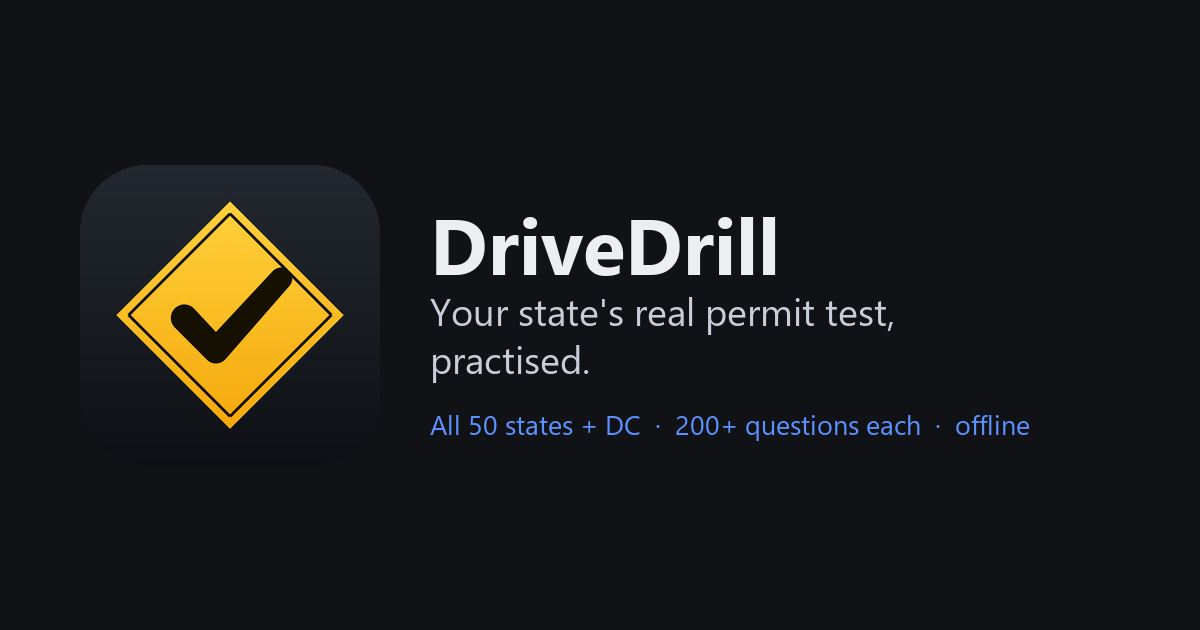
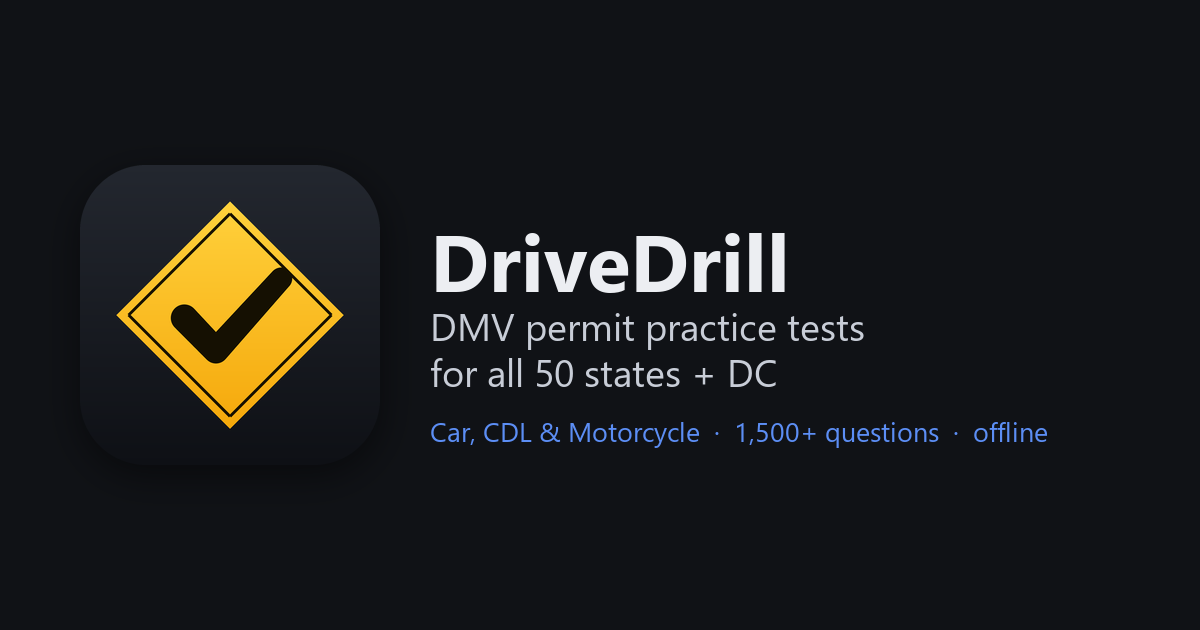
Site matches live app 1.8.1: car Monthly price, CDL/Motorcycle weekly in the terms, in-app Manage Subscription, exam-format wording, Spanish language steps, share card
- index: car plans list Weekly $7.99 · Monthly $19.99 · Pass Pack $19.99 one-time (Monthly is
  on the car paywall and in the store description); check_site ALLOWED_COPY follows
- support: Settings > Manage Subscription opens a screen to cancel or ask Apple for a refund
  (1.8.1 Customer Center); exam format follows the state's only where the state publishes it,
  as the store text says; no "own exam format" for every state
- terms: CDL Weekly $9.99 and Motorcycle Weekly $7.99 listed as subscriptions; the 7-day
  free trial on weekly plans stated; dated 8 October 2026
- es/cdl, es/motocicleta, 51 es/<state> pages (and build_es_pages.py): Ajustes > Idioma opens
  the iPhone's Configuración, where Español is chosen (what the app's row does)
- og.png: current facts (Car, CDL & Motorcycle, 1,500+ questions, all 50 states + DC); same
  live icon
- sitemap: lastmod 2026-10-08 for the changed pages

Changed region(s): [[0.3392, 0.3317, 0.74, 0.6333], [0.3392, 0.6635, 0.8633, 0.7238]]

diff --git a/terms.html b/terms.html
@@ -31,7 +31,7 @@
     <div class="wrap hero-grid">
       <div class="hero-copy">
         <h1 id="hero-title">Terms of Use</h1>
-        <p class="updated-h">Last updated: 4 October 2026</p>
+        <p class="updated-h">Last updated: 8 October 2026</p>
       </div>
     </div>
   </section>
@@ -75,6 +75,9 @@
     <li><strong>Premium Weekly</strong> ($7.99 per week) and <strong>Premium Monthly</strong>
         ($19.99 per month) are auto-renewing subscriptions. Payment is charged to your Apple
         Account at confirmation of purchase.</li>
+    <li><strong>CDL Weekly</strong> ($9.99 per week) and <strong>Motorcycle Weekly</strong>
+        ($7.99 per week) are auto-renewing subscriptions for their own sections, charged the
+        same way.</li>
     <li>Where the app offers it, <strong>Premium Weekly (special offer)</strong> is an
         auto-renewing subscription at the weekly price shown on the offer screen (currently
         $4.99 per week), with no free trial.</li>
@@ -83,8 +86,9 @@
         the end of the current period.</li>
     <li>Manage or cancel a subscription in Settings › Apple Account › Subscriptions. Deleting
         the app does not cancel a subscription.</li>
-    <li>Where offered, a free trial converts to a paid subscription unless cancelled at least
-        24 hours before the trial ends. Any unused portion of a free trial is forfeited when a
+    <li>Eligible new subscribers get a 7-day free trial on weekly plans (Premium Weekly, CDL
+        Weekly and Motorcycle Weekly). Where offered, a free trial converts to a paid
+        subscription unless cancelled at least 24 hours before the trial ends. Any unused portion of a free trial is forfeited when a
         subscription is purchased.</li>
     <li>The <strong>Pass Pack</strong> ($19.99) is a one-time purchase. It does not renew, and
         it unlocks every state in the app, not just the one you are studying. The

diff --git a/support.html b/support.html
@@ -51,8 +51,9 @@
     Subscriptions are managed by Apple, not by us. On your iPhone: <strong>Settings › your
     name › Subscriptions</strong>, then tap the DriveDrill subscription (it may be listed as
     <strong>Permit Practice Test: DMV 2026</strong> or <strong>DMV Permit Test</strong>) and
-    tap <strong>Cancel</strong>. You can also tap
-    <strong>Manage Subscription</strong> inside the app. Cancel at least 24 hours before the
+    tap <strong>Cancel</strong>. You can also open <strong>Settings › Manage
+    Subscription</strong> inside the app: it opens a screen where you can cancel or ask Apple
+    for a refund (Apple decides refunds). Cancel at least 24 hours before the
     period ends, or it renews. Deleting the app does not cancel a subscription.
   </p>
 
@@ -98,13 +99,14 @@
   <h2>Is this the real test?</h2>
   <p>
     No. These are original questions written in the style of public state driver handbooks.
-    The exam format is built to match your state's real test — its question count, its pass
-    score, and any separately scored sections — but the questions themselves are ours. Your
+    Where your state publishes its test format, the mock exam follows it — its question count,
+    its pass score, and any separately scored sections; where it does not, the app says so. The
+    questions themselves are ours. Your
     state's current official handbook is always the authoritative source.
   </p>
 
   <h2>Which states are included?</h2>
-  <p>All 50 states and the District of Columbia, each with its own question bank and its own exam format.</p>
+  <p>All 50 states and the District of Columbia, each with its own question bank.</p>
 
   <p class="disclaimer">
     DriveDrill is an independent study app. It is not affiliated with, endorsed by, or

diff --git a/index.html b/index.html
@@ -197,7 +197,7 @@
       <div class="trial-layout">
         <div>
           <dl class="prices">
-            <div><dt>Car permit</dt><dd><span class="p">Weekly $7.99</span><span class="dot"> · </span><span class="p">Pass Pack $19.99 one-time</span></dd></div>
+            <div><dt>Car permit</dt><dd><span class="p">Weekly $7.99</span><span class="dot"> · </span><span class="p">Monthly $19.99</span><span class="dot"> · </span><span class="p">Pass Pack $19.99 one-time</span></dd></div>
             <div><dt>CDL</dt><dd><span class="p">CDL Weekly $9.99</span><span class="dot"> · </span><span class="p">CDL Pass $39.99</span></dd></div>
             <div><dt>Motorcycle</dt><dd><span class="p">Motorcycle Weekly $7.99</span><span class="dot"> · </span><span class="p">Motorcycle Pass $19.99</span></dd></div>
           </dl>

diff --git a/es/district-of-columbia/index.html b/es/district-of-columbia/index.html
@@ -183,7 +183,7 @@
       <div class="endcard">
         <p>Practica las más de 230 preguntas del Distrito de Columbia y toma simulacros de examen completos en la app, en español.</p>
         <p class="cta"><a class="store-link appstore" data-store="es-car" href="https://apps.apple.com/us/app/id6813140105"><img src="/img/app-store-badge-es.svg" alt="Descárgalo en el App Store" width="162" height="54"></a></p>
-        <p class="cta-note">Si tu iPhone está en español, DriveDrill se abre en español. Si no, toca Ajustes › Idioma en la app y elige Español.</p>
+        <p class="cta-note">Si tu iPhone está en español, DriveDrill se abre en español. Si no, en la app toca Ajustes › Idioma: se abre DriveDrill en la app Configuración, donde puedes elegir Español.</p>
       </div>
 
       <div class="after-quiz">

diff --git a/es/west-virginia/index.html b/es/west-virginia/index.html
@@ -183,7 +183,7 @@
       <div class="endcard">
         <p>Practica las más de 230 preguntas de Virginia Occidental y toma simulacros de examen completos en la app, en español.</p>
         <p class="cta"><a class="store-link appstore" data-store="es-car" href="https://apps.apple.com/us/app/id6813140105"><img src="/img/app-store-badge-es.svg" alt="Descárgalo en el App Store" width="162" height="54"></a></p>
-        <p class="cta-note">Si tu iPhone está en español, DriveDrill se abre en español. Si no, toca Ajustes › Idioma en la app y elige Español.</p>
+        <p class="cta-note">Si tu iPhone está en español, DriveDrill se abre en español. Si no, en la app toca Ajustes › Idioma: se abre DriveDrill en la app Configuración, donde puedes elegir Español.</p>
       </div>
 
       <div class="after-quiz">

diff --git a/es/north-carolina/index.html b/es/north-carolina/index.html
@@ -185,7 +185,7 @@
       <div class="endcard">
         <p>Practica las más de 230 preguntas de Carolina del Norte y toma simulacros de examen completos en la app, en español.</p>
         <p class="cta"><a class="store-link appstore" data-store="es-car" href="https://apps.apple.com/us/app/id6813140105"><img src="/img/app-store-badge-es.svg" alt="Descárgalo en el App Store" width="162" height="54"></a></p>
-        <p class="cta-note">Si tu iPhone está en español, DriveDrill se abre en español. Si no, toca Ajustes › Idioma en la app y elige Español.</p>
+        <p class="cta-note">Si tu iPhone está en español, DriveDrill se abre en español. Si no, en la app toca Ajustes › Idioma: se abre DriveDrill en la app Configuración, donde puedes elegir Español.</p>
       </div>
 
       <div class="after-quiz">

diff --git a/es/north-dakota/index.html b/es/north-dakota/index.html
@@ -183,7 +183,7 @@
       <div class="endcard">
         <p>Practica las más de 230 preguntas de Dakota del Norte y toma simulacros de examen completos en la app, en español.</p>
         <p class="cta"><a class="store-link appstore" data-store="es-car" href="https://apps.apple.com/us/app/id6813140105"><img src="/img/app-store-badge-es.svg" alt="Descárgalo en el App Store" width="162" height="54"></a></p>
-        <p class="cta-note">Si tu iPhone está en español, DriveDrill se abre en español. Si no, toca Ajustes › Idioma en la app y elige Español.</p>
+        <p class="cta-note">Si tu iPhone está en español, DriveDrill se abre en español. Si no, en la app toca Ajustes › Idioma: se abre DriveDrill en la app Configuración, donde puedes elegir Español.</p>
       </div>
 
       <div class="after-quiz">

diff --git a/es/south-carolina/index.html b/es/south-carolina/index.html
@@ -185,7 +185,7 @@
       <div class="endcard">
         <p>Practica las más de 230 preguntas de Carolina del Sur y toma simulacros de examen completos en la app, en español.</p>
         <p class="cta"><a class="store-link appstore" data-store="es-car" href="https://apps.apple.com/us/app/id6813140105"><img src="/img/app-store-badge-es.svg" alt="Descárgalo en el App Store" width="162" height="54"></a></p>
-        <p class="cta-note">Si tu iPhone está en español, DriveDrill se abre en español. Si no, toca Ajustes › Idioma en la app y elige Español.</p>
+        <p class="cta-note">Si tu iPhone está en español, DriveDrill se abre en español. Si no, en la app toca Ajustes › Idioma: se abre DriveDrill en la app Configuración, donde puedes elegir Español.</p>
       </div>
 
       <div class="after-quiz">

diff --git a/es/new-hampshire/index.html b/es/new-hampshire/index.html
@@ -183,7 +183,7 @@
       <div class="endcard">
         <p>Practica las más de 230 preguntas de Nuevo Hampshire y toma simulacros de examen completos en la app, en español.</p>
         <p class="cta"><a class="store-link appstore" data-store="es-car" href="https://apps.apple.com/us/app/id6813140105"><img src="/img/app-store-badge-es.svg" alt="Descárgalo en el App Store" width="162" height="54"></a></p>
-        <p class="cta-note">Si tu iPhone está en español, DriveDrill se abre en español. Si no, toca Ajustes › Idioma en la app y elige Español.</p>
+        <p class="cta-note">Si tu iPhone está en español, DriveDrill se abre en español. Si no, en la app toca Ajustes › Idioma: se abre DriveDrill en la app Configuración, donde puedes elegir Español.</p>
       </div>
 
       <div class="after-quiz">

diff --git a/es/south-dakota/index.html b/es/south-dakota/index.html
@@ -185,7 +185,7 @@
       <div class="endcard">
         <p>Practica las más de 230 preguntas de Dakota del Sur y toma simulacros de examen completos en la app, en español.</p>
         <p class="cta"><a class="store-link appstore" data-store="es-car" href="https://apps.apple.com/us/app/id6813140105"><img src="/img/app-store-badge-es.svg" alt="Descárgalo en el App Store" width="162" height="54"></a></p>
-        <p class="cta-note">Si tu iPhone está en español, DriveDrill se abre en español. Si no, toca Ajustes › Idioma en la app y elige Español.</p>
+        <p class="cta-note">Si tu iPhone está en español, DriveDrill se abre en español. Si no, en la app toca Ajustes › Idioma: se abre DriveDrill en la app Configuración, donde puedes elegir Español.</p>
       </div>
 
       <div class="after-quiz">

diff --git a/es/massachusetts/index.html b/es/massachusetts/index.html
@@ -183,7 +183,7 @@
       <div class="endcard">
         <p>Practica las más de 230 preguntas de Massachusetts y toma simulacros de examen completos en la app, en español.</p>
         <p class="cta"><a class="store-link appstore" data-store="es-car" href="https://apps.apple.com/us/app/id6813140105"><img src="/img/app-store-badge-es.svg" alt="Descárgalo en el App Store" width="162" height="54"></a></p>
-        <p class="cta-note">Si tu iPhone está en español, DriveDrill se abre en español. Si no, toca Ajustes › Idioma en la app y elige Español.</p>
+        <p class="cta-note">Si tu iPhone está en español, DriveDrill se abre en español. Si no, en la app toca Ajustes › Idioma: se abre DriveDrill en la app Configuración, donde puedes elegir Español.</p>
       </div>
 
       <div class="after-quiz">

diff --git a/es/new-mexico/index.html b/es/new-mexico/index.html
@@ -183,7 +183,7 @@
       <div class="endcard">
         <p>Practica las más de 230 preguntas de Nuevo México y toma simulacros de examen completos en la app, en español.</p>
         <p class="cta"><a class="store-link appstore" data-store="es-car" href="https://apps.apple.com/us/app/id6813140105"><img src="/img/app-store-badge-es.svg" alt="Descárgalo en el App Store" width="162" height="54"></a></p>
-        <p class="cta-note">Si tu iPhone está en español, DriveDrill se abre en español. Si no, toca Ajustes › Idioma en la app y elige Español.</p>
+        <p class="cta-note">Si tu iPhone está en español, DriveDrill se abre en español. Si no, en la app toca Ajustes › Idioma: se abre DriveDrill en la app Configuración, donde puedes elegir Español.</p>
       </div>
 
       <div class="after-quiz">
